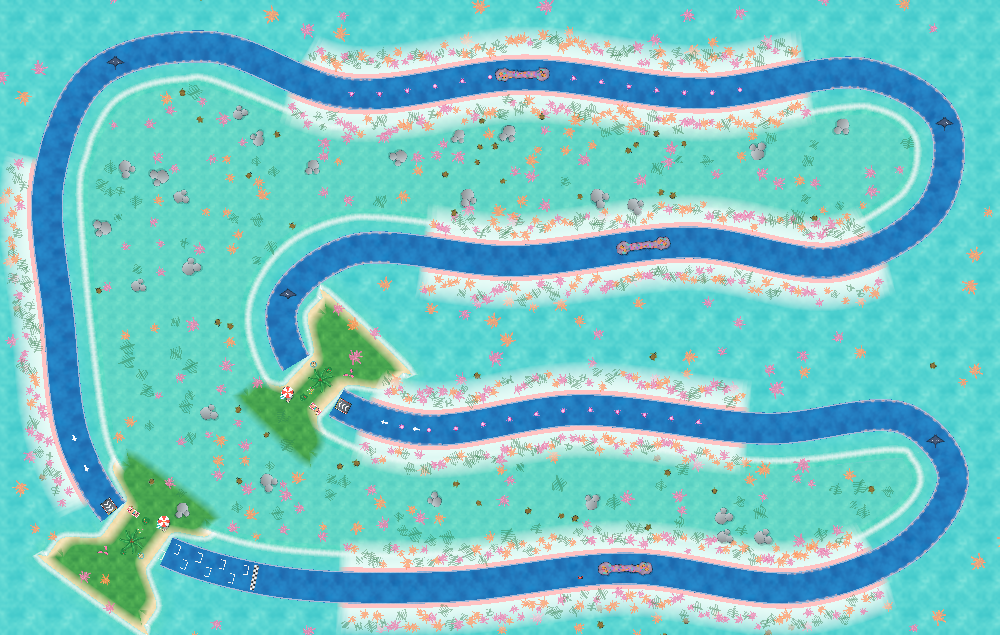
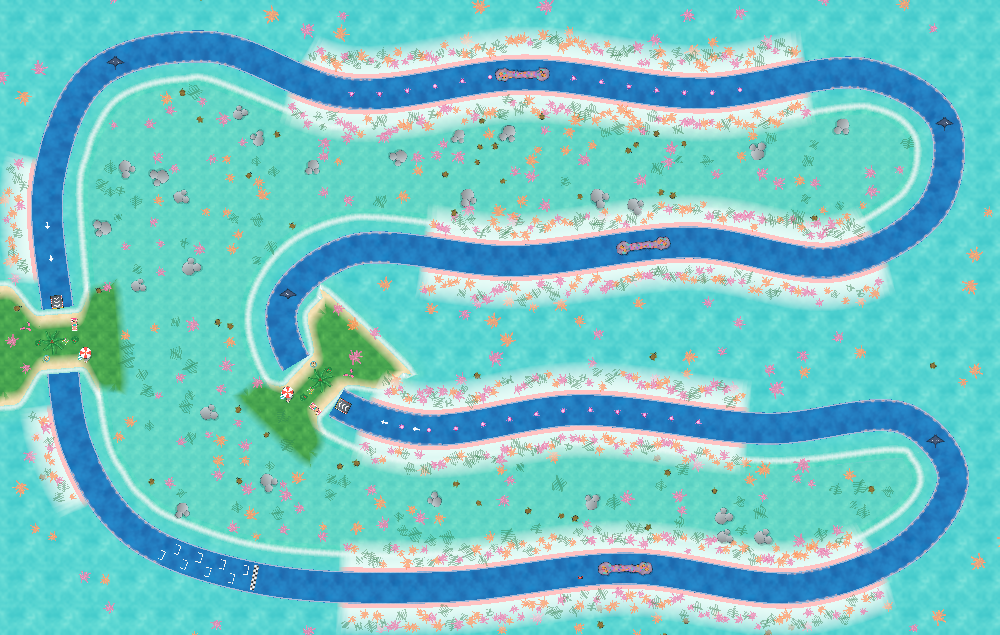
Coral Coast: the last trick jump moved off the starting grid (the back of the grid started in front of its kicker and was sent back at once) onto the straight before it; fish schools swim calmly instead of spinning faster and faster as the race goes on

Changed region(s): [[0.0, 0.4189, 0.217, 1.0]]

diff --git a/Assets/Scripts/Editor/WaterCupSetup.cs b/Assets/Scripts/Editor/WaterCupSetup.cs
@@ -878,7 +878,8 @@ namespace SomeGame.EditorTools
                 new() { from = 212f, to = 296f, side = 0f, reef = true },
                 new() { from = 362f, to = 462f, side = 0f, reef = true },
                 new() { from = 528f, to = 640f, side = 0f, reef = true },
-                new() { from = 706f, to = 780f, side = -1f, reef = true },
+                new() { from = 706f, to = 732f, side = -1f, reef = true },
+                new() { from = 758f, to = 780f, side = -1f, reef = true },
             };
             w.jellyfish = new List<Vector2> { new(220f, 290f), new(540f, 630f) };
             w.mantas = new List<float> { 170f, 330f, 495f, 680f };
@@ -888,16 +889,17 @@ namespace SomeGame.EditorTools
                 Piece("CoralArch", At(410f), 12f, Ang(410f), true),
                 Piece("CoralArch", At(590f), 12f, Ang(590f), true),
             };
-            // The hairpins have kickers over the reef crests on the way out.
-            t.gaps = new List<TrackLayout.Gap> { new() { from = 302f, to = 314f, trickJump = true, tricks = 2 }, new() { from = 784f, to = 798f, trickJump = true, tricks = 3 } };
+            // The hairpins have kickers over the reef crests on the way out. (The last one well before the starting grid:
+            // a boat at the back of the grid must never start in front of a kicker.)
+            t.gaps = new List<TrackLayout.Gap> { new() { from = 302f, to = 314f, trickJump = true, tricks = 2 }, new() { from = 738f, to = 752f, trickJump = true, tricks = 3 } };
             t.bouncers = new List<TrackLayout.Bouncer>
             {
                 new() { position = At(170f, 0f), radius = 1.9f, airTime = 0.8f, speedBoost = 1.15f },
                 new() { position = At(494f, 0f), radius = 1.9f, airTime = 0.8f, speedBoost = 1.15f },
             };
-            t.rings = new List<TrackLayout.Ring> { new() { distance = 178f }, new() { distance = 320f }, new() { distance = 502f }, new() { distance = 806f } };
+            t.rings = new List<TrackLayout.Ring> { new() { distance = 178f }, new() { distance = 320f }, new() { distance = 502f }, new() { distance = 760f } };
             t.dashPanels = new List<TrackLayout.DashPanel> { new() { distance = 10f }, new() { distance = 205f }, new() { distance = 355f }, new() { distance = 522f }, new() { distance = 700f } };
-            t.dolphins = new List<float> { 740f };
+            t.dolphins = new List<float> { 700f };
             t.boats = new List<TrackLayout.Boat>
             {
                 new() { kind = TrackLayout.BoatKind.Sailboat, position = new Vector2(130f, 60f), angle = 20f, drift = 8f },

diff --git a/Assets/Scripts/Track/TrackWild.Life.cs b/Assets/Scripts/Track/TrackWild.Life.cs
@@ -283,8 +283,8 @@ namespace SomeGame.Track
                     var tint = FishTints[random.Next(FishTints.Length)];
                     c.Puffs = new SpriteRenderer[5];
                     for (int k = 0; k < c.Puffs.Length; k++) c.Puffs[k] = New("TropicalFish", R(0.55f, 0.75f), LifeUnderOrder, tint);
-                    c.Radius = R(2f, 3.5f);
-                    c.Speed = R(0.35f, 0.6f) * (random.Next(2) == 0 ? 1f : -1f);
+                    c.Radius = R(2.5f, 4f);
+                    c.Speed = R(0.18f, 0.3f) * (random.Next(2) == 0 ? 1f : -1f);
                     break;
                 }
                 case TrackLayout.LifeKind.Turtles:
@@ -465,10 +465,12 @@ namespace SomeGame.Track
                         break;
                     case TrackLayout.LifeKind.TropicalFish:
                     {
-                        float a = now * c.Speed + c.Phase;
+                        // (the angle builds up frame by frame: a school speeds up a little now and then, never spins)
                         float dart = 1f + 0.5f * Mathf.Max(0f, Mathf.Sin(now * 0.9f + c.Phase * 2f));
-                        Vector2 centre = c.Home + new Vector2(Mathf.Cos(a * dart), Mathf.Sin(a * dart)) * c.Radius;
-                        Vector2 tangent = new Vector2(-Mathf.Sin(a * dart), Mathf.Cos(a * dart)) * Mathf.Sign(c.Speed);
+                        c.Timer += dt * c.Speed * dart;
+                        float a = c.Timer + c.Phase;
+                        Vector2 centre = c.Home + new Vector2(Mathf.Cos(a), Mathf.Sin(a)) * c.Radius;
+                        Vector2 tangent = new Vector2(-Mathf.Sin(a), Mathf.Cos(a)) * Mathf.Sign(c.Speed);
                         Vector2 side = new(-tangent.y, tangent.x);
                         for (int k = 0; k < c.Puffs.Length; k++)
                         {
